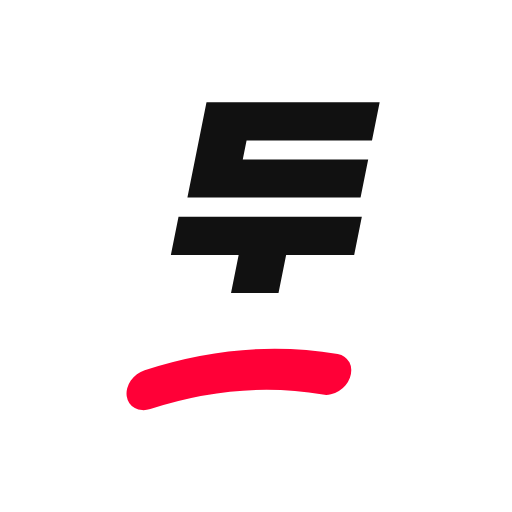
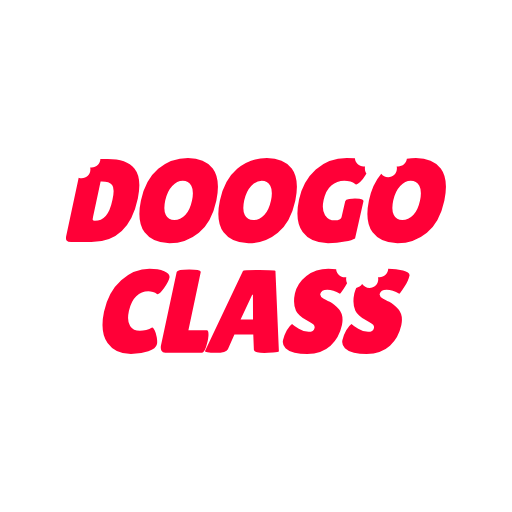
웹 아이콘을 앱 아이콘 2안으로: 흰 바탕 · 빨강 DOOGO / CLASS 두 줄
- 원본 assets/brand/app-icon.svg (1024 각진 흰 정사각형 · 글자 폭 760, 예전 앱 아이콘 시안 10개 중 2안)
- scripts/web-icons.js 가 이 원본에서 글자만 꺼내 크기별로 만듦
  · 탭 아이콘 favicon.svg / favicon.png(64): 둥근 흰 사각형 · 글자를 크게(폭 900)
  · apple-touch-icon(180) · icon-192 · icon-512: 네모 그대로(모서리는 기기가 깎음)
  · icon-maskable-512: 안드로이드가 동그랗게 잘라도 안전하게 글자 폭 620
- index.html 아이콘 · manifest 주소와 manifest.webmanifest 아이콘 주소 ?v=20261102b 로 올림 (새 아이콘을 바로 받아 가게)
- README 웹 아이콘 설명 갱신
- 두잉고 앱 아이콘(assets/app/)은 그대로

Claude-Session: https://claude.ai/code/session_01QiS8qxkcQBgeuomLZdJMad

Changed region(s): [[0.125, 0.1875, 0.875, 0.8125]]

diff --git a/class/scripts/web-icons.js b/class/scripts/web-icons.js
@@ -1,14 +1,15 @@
-/* 웹 아이콘 (브라우저 탭 · 아이폰 · 삼성 인터넷 · 안드로이드 홈 화면) — 흰 바탕 · 검정 ‘두’ · 빨간 밑줄 (2026-10-28 시안)
+/* 웹 아이콘 (브라우저 탭 · 아이폰 · 삼성 인터넷 · 안드로이드 홈 화면) — 앱 아이콘 2안: 흰 바탕 · 빨강 DOOGO / CLASS 두 줄 (2026-11-02)
  *
  *   node scripts/web-icons.js        (playwright 필요)
  *
+ * 원본은 assets/brand/app-icon.svg 하나 (1024×1024 각진 흰 정사각형 · 글자 폭 760). 이 파일만 고치면 아래가 다 바뀌어요.
  * 만드는 파일
- *   assets/brand/favicon.svg            탭 아이콘 (둥근 흰 사각형 · 글자 크게 — 작게 보여도 읽히게)
+ *   assets/brand/favicon.svg            탭 아이콘 (둥근 흰 사각형 · 글자를 크게 — 작게 보여도 읽히게)
  *   assets/brand/favicon.png            64×64 (svg 를 못 읽는 브라우저)
  *   assets/brand/apple-touch-icon.png   180×180 아이폰 · 삼성 인터넷 홈 화면 (네모 그대로 — 모서리는 기기가 둥글게)
  *   apple-touch-icon.png                같은 파일을 사이트 맨 위에도 (주소를 정해 두지 않은 앱이 찾는 자리)
  *   assets/brand/icon-192.png · icon-512.png · icon-maskable-512.png   manifest.webmanifest (안드로이드 홈 화면)
- * 글자 모양을 바꾸면 이 파일의 GLYPH 만 고치고 다시 돌리면 돼요. index.html 의 아이콘 주소 끝 ?v= 도 올려 주세요. */
+ * 아이콘을 바꾸면 index.html 의 아이콘 주소 끝 ?v= 와 manifest.webmanifest 의 ?v= 도 올려 주세요. */
 "use strict";
 const fs = require("fs");
 const path = require("path");
@@ -16,32 +17,35 @@ const { chromium } = require("playwright");
 
 const ROOT = path.join(__dirname, "..");
 const BRAND = path.join(ROOT, "assets", "brand");
-// ‘두’ 글자(검정) + 밑줄(빨강) — 72 × 121 단위, 오른쪽으로 살짝 기울임
-const GLYPH = '<g transform="matrix(1 0 -0.2 1 16 0)"><path d="M20.8 22.6V15.1H70.2V0H2V37.6H70.2V22.6ZM72.2 45.1H0V60.2H26.7V75.2H45.4V60.2H72.2Z" fill="#111111"/><path d="M1.4 113.2 Q36.1 101.2 72.2 107.2" fill="none" stroke="#FF0037" stroke-width="16.2" stroke-linecap="round"/></g>';
-const CX = 37.5, CY = 60.6, GH = 121; // 기울인 글자 묶음의 가운데 · 높이 (밑줄 굵기 포함)
-/** 1024 캔버스 · 글자 높이 비율 h · 모서리 r(0 이면 네모) */
-function svg(h, r) {
-  const s = (1024 * h) / GH, tx = 512 - CX * s, ty = 512 - CY * s;
+const MASTER = fs.readFileSync(path.join(BRAND, "app-icon.svg"), "utf8");
+// 원본에서 글자(path)만 꺼냄 — 1024 칸 가운데(512, 512)에 폭 760 으로 놓여 있음
+const LETTERS = (MASTER.match(/<path\b[^>]*\/>/g) || []).join("");
+if (!LETTERS) throw new Error("assets/brand/app-icon.svg 에서 글자를 찾지 못했어요");
+const BASE_W = 760;
+
+/** 1024 캔버스 · 글자 폭 w · 모서리 r(0 이면 네모) */
+function svg(w, r) {
+  const k = (w / BASE_W).toFixed(4);
   return '<svg xmlns="http://www.w3.org/2000/svg" viewBox="0 0 1024 1024" width="1024" height="1024"><rect width="1024" height="1024" rx="' + r + '" fill="#FFFFFF"/>' +
-    '<g transform="translate(' + tx.toFixed(1) + " " + ty.toFixed(1) + ") scale(" + s.toFixed(3) + ')">' + GLYPH + "</g></svg>";
+    '<g transform="translate(512 512) scale(' + k + ') translate(-512 -512)">' + LETTERS + "</g></svg>";
 }
 const OUT = [
-  // [파일, 픽셀, 글자 높이 비율, 모서리]
-  ["favicon.png", 64, 0.74, 230],
-  ["apple-touch-icon.png", 180, 0.6, 0],
-  ["icon-192.png", 192, 0.6, 0],
-  ["icon-512.png", 512, 0.6, 0],
-  ["icon-maskable-512.png", 512, 0.5, 0]
+  // [파일, 픽셀, 글자 폭(1024 기준), 모서리]
+  ["favicon.png", 64, 900, 200],
+  ["apple-touch-icon.png", 180, 760, 0],
+  ["icon-192.png", 192, 760, 0],
+  ["icon-512.png", 512, 760, 0],
+  ["icon-maskable-512.png", 512, 620, 0] // 안드로이드가 동그랗게 잘라도 글자가 안쪽 안전 영역(지름 80%)에 들어가게
 ];
 
 (async () => {
-  fs.writeFileSync(path.join(BRAND, "favicon.svg"), svg(0.74, 230));
+  fs.writeFileSync(path.join(BRAND, "favicon.svg"), svg(900, 200));
   const b = await chromium.launch();
   try {
     const p = await b.newPage();
-    for (const [name, px, h, r] of OUT) {
+    for (const [name, px, w, r] of OUT) {
       await p.setViewportSize({ width: px, height: px });
-      await p.setContent('<style>html,body{margin:0;background:transparent}svg{display:block;width:' + px + "px;height:" + px + "px}</style>" + svg(h, r));
+      await p.setContent('<style>html,body{margin:0;background:transparent}svg{display:block;width:' + px + "px;height:" + px + "px}</style>" + svg(w, r));
       await p.screenshot({ path: path.join(BRAND, name), omitBackground: r > 0 });
       console.log("✓ assets/brand/" + name + " (" + px + "px)");
     }

diff --git a/class/index.html b/class/index.html
@@ -36,11 +36,11 @@
   <!-- 화면이 그려지면 아래 검색용 안내 글은 감춘다 (자바스크립트를 못 읽는 검색 로봇은 그대로 읽어 감) -->
   <script>document.documentElement.className += " js";</script>
   <style>.js .seo-static { display: none; } .seo-static { max-width: 880px; margin: 0 auto; padding: 40px 20px; font-family: Pretendard, "Apple SD Gothic Neo", sans-serif; line-height: 1.7; color: #222; }</style>
-  <!-- 웹 아이콘 (흰 바탕 · 검정 ‘두’ · 빨간 밑줄) — 바꿀 때는 scripts/web-icons.js 를 다시 돌리고 ?v= 숫자도 올려요 -->
-  <link rel="icon" href="assets/brand/favicon.svg?v=20261102" type="image/svg+xml" />
-  <link rel="icon" href="assets/brand/favicon.png?v=20261102" type="image/png" sizes="64x64" />
-  <link rel="apple-touch-icon" href="assets/brand/apple-touch-icon.png?v=20261102" sizes="180x180" />
-  <link rel="manifest" href="manifest.webmanifest" />
+  <!-- 웹 아이콘 (앱 아이콘 2안: 흰 바탕 · 빨강 DOOGO / CLASS 두 줄 — 원본 assets/brand/app-icon.svg) — 바꿀 때는 scripts/web-icons.js 를 다시 돌리고 ?v= 숫자도 올려요 -->
+  <link rel="icon" href="assets/brand/favicon.svg?v=20261102b" type="image/svg+xml" />
+  <link rel="icon" href="assets/brand/favicon.png?v=20261102b" type="image/png" sizes="64x64" />
+  <link rel="apple-touch-icon" href="assets/brand/apple-touch-icon.png?v=20261102b" sizes="180x180" />
+  <link rel="manifest" href="manifest.webmanifest?v=20261102b" />
   <link rel="stylesheet" href="assets/fonts/pretendard.css" />
   <link rel="stylesheet" href="https://fonts.googleapis.com/css2?family=Noto+Serif+KR:wght@700;900&display=swap" />
   <link rel="stylesheet" href="styles.css" />

diff --git a/class/README.md b/class/README.md
@@ -392,7 +392,7 @@ Wappalyzer 같은 기술 탐지 도구는 **페이지가 실제로 불러오는 
 - **상세 탭 4개**: 클래스 소개 · 커리큘럼 · 후기 · 이용 안내 (강사 소개는 소개 끝 · 수강권 앞). 강사 카드는 **클래스 수만**(수강생 수는 안 보여요).
 - **PC 전체 카테고리 펼침 메뉴**: 머리띠 ‘전체 카테고리’를 누르면 아래로 넓은 창 — 왼쪽 분야(마우스를 올리면 바뀜) · 가운데 종류별 바로가기 + 인기 클래스 6개 · 오른쪽 바로가기 + 두고 파트너스. 바깥 · Esc · 페이지 이동이면 닫혀요. 1023px 이하(휴대폰 · 태블릿)는 예전 ‘전체 메뉴’.
 - **두고 파트너스 (강사 모집 팝업 대신)**: 머리띠 위 줄 **‘두고 파트너스’ + 말풍선 ‘파트너 강사로 지원하기’**(PC), 소개 `/vod/partners` · 지원서 `/vod/partners/apply`(예전 `/vod/recruit` · ‘강사 모집’ 버튼도 여기로). 지원서는 서버 문서 `inq:<id>`(source `partners` · 지원서 칸 `form`, 서버가 칸 이름 · 길이를 정해 받아요)로 **마스터만** 봐요 → **마스터 › DOOGO CLASS › 크리에이터 › 두고 파트너스 지원**(상태 탭 · 메모 · 엑셀 내려받기 · ‘VOD 강사로 등록’). 쓰던 지원서는 그 탭에 잠깐 기억(sessionStorage), 보내면 지워요. 강사 정산 비율은 대외비라 공개 페이지에 쓰지 않아요(상담에서 안내).
-- **웹 아이콘**: 흰 바탕 · 검정 ‘두’ · 빨간 밑줄. `node scripts/web-icons.js` 가 `assets/brand/favicon.svg` · `favicon.png` · `apple-touch-icon.png`(180) · `icon-192/512` · `icon-maskable-512` 와 사이트 맨 위 `apple-touch-icon.png` 를 만들고, `manifest.webmanifest` 가 안드로이드 홈 화면 아이콘을 알려요. 아이콘을 바꾸면 `index.html` 아이콘 주소의 `?v=` 도 올려 주세요.
+- **웹 아이콘**: 앱 아이콘 2안 — 흰 바탕 · 빨강 DOOGO / CLASS 두 줄(원본 `assets/brand/app-icon.svg`, 1024 각진 흰 정사각형 · 글자 폭 760). 탭 아이콘은 둥근 흰 사각형에 글자를 크게(폭 900), 안드로이드 maskable 은 동그랗게 잘려도 안전하게 글자 폭 620. `node scripts/web-icons.js` 가 원본에서 `assets/brand/favicon.svg` · `favicon.png` · `apple-touch-icon.png`(180) · `icon-192/512` · `icon-maskable-512` 와 사이트 맨 위 `apple-touch-icon.png` 를 만들고, `manifest.webmanifest` 가 안드로이드 홈 화면 아이콘을 알려요. 아이콘을 바꾸면 `index.html` 아이콘 · manifest 주소와 `manifest.webmanifest` 아이콘 주소의 `?v=` 도 올려 주세요(지금 `20261102b`).
 - **휴대폰 아래 구매 막대**: 긴 버튼 문구(재수강 할인 · 입금 대기 등)는 두 줄로, 400px 이하 화면은 미리보기 버튼을 빼서 ‘수강신청 하기’가 잘리지 않아요.
 - **테스트**: `node scripts/vod-test.js` 19)~20) — 수강권 · 재수강 할인 금액 · 연장권 거절 · 업데이트 기록 저장 범위 · 알림톡(연결 전 · 템플릿 없음 · 보냄 · 다시 보내기) · 두고 파트너스 지원서 저장 · 칸 정리 · 공개 범위(마스터만).
 
